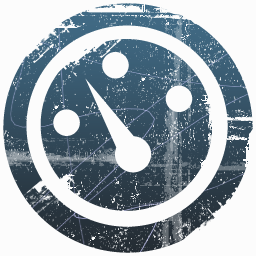
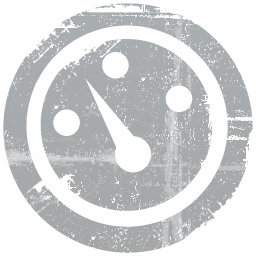
Fixed dashboard image and style.

diff --git a/public/less/corgi.less b/public/less/corgi.less
@@ -487,13 +487,11 @@ input[type="checkbox"].ace + .lbl, input[type="radio"].ace + .lbl {
   width: 100%;
   line-height: 200px;
   display: inline-block;
-  opacity: 0.1;
   background: url('../images/Dashboard.png') no-repeat 50% 50% transparent;
 }
 
 #folders .folder.new > a {
   height: 240px;
-  opacity: 1.0;
   background: url('https://s3.amazonaws.com/jetstrap-site/images/dashboard/folder_plus_icon.png') no-repeat 50% 50% transparent;
 }
 
@@ -572,5 +570,5 @@ input[type="checkbox"].ace + .lbl, input[type="radio"].ace + .lbl {
 }
 
 #main {
-	background-color: #eee;
+	background-color: #a3a3a3;
 }

diff --git a/NOTES.md b/NOTES.md
@@ -1,0 +1,12 @@
+- Set height of "#content" and test scrolling with many dashboards
+- Play around with background-color for "#content"
+- a:hover for those in .navbar should have :hover as color:white
+- Do dashboards need "settings" button with menu?
+- Add form for creating a new dashboard
+- Add basic mongo integration for logins (remember me? forgot password? register new user?)
+- Add basic mongo integration/end point for getting dashboards
+- Set dashboards as CompositeView (uses collection)
+- Add mongo integration and endpoint for adding new dashboard
+- Add end point for loading dashboard after clicking dashboard link
+- Dashboard interface:
+	* ...
